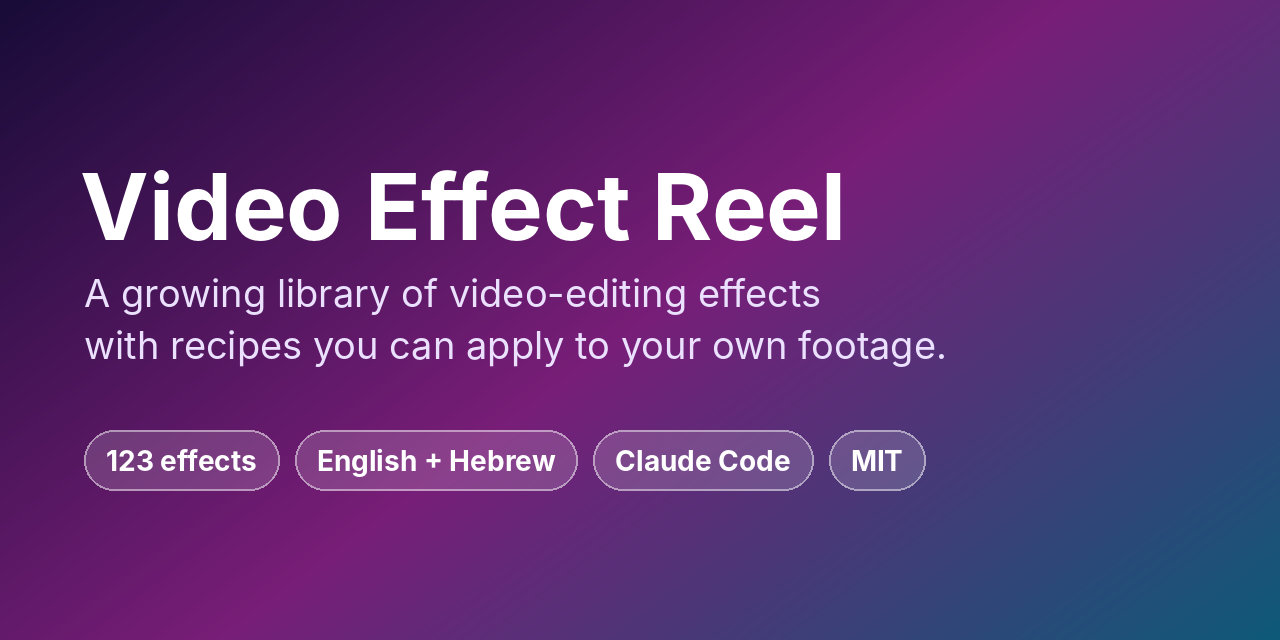
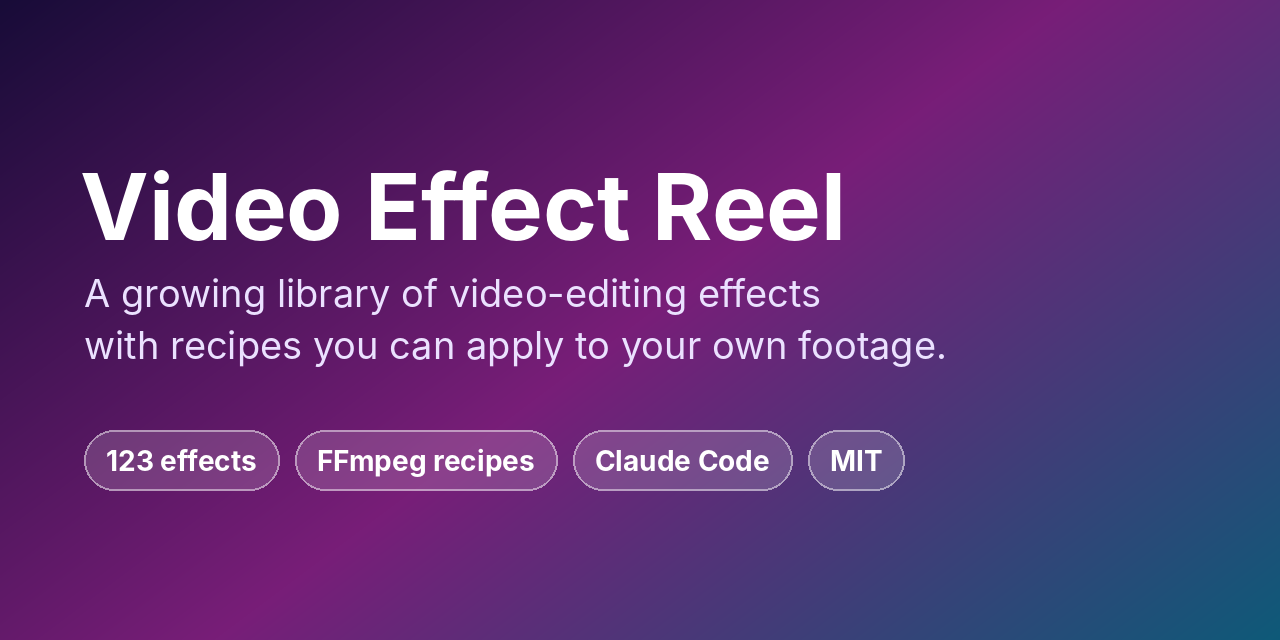
Make the public documentation English-only
- README: remove the Hebrew README, language badge and Hebrew references
- English-only screenshots and social preview image
- CONTRIBUTING, issue forms, skill and integration snippet in English
- English index no longer links to a translation

Claude-Session: https://claude.ai/code/session_01NGzpPiBKKeVhk9TqpcxCfm

Changed region(s): [[0.25, 0.6562, 0.7188, 0.7812]]

diff --git a/reel_effects.py b/reel_effects.py
@@ -288,7 +288,7 @@ Include only techniques visible in this video. Compare each visible technique ag
 
 LABELS = {
     "en": {"title": "# Effect Library", "count": "Starter recipes: {n}", "intro": "General reusable techniques, not claims that these appeared in an analyzed video.",
-           "when": "When to use", "recipe": "Recipe", "tags": "Tags", "reference": "Reference", "other": "Other languages: [עברית](EFFECTS.he.md)",
+           "when": "When to use", "recipe": "Recipe", "tags": "Tags", "reference": "Reference", "other": "",
            "analyses": "# My analyzed videos", "none": "No videos analyzed yet. Add one with `./reel-effects add <URL-or-file>`.",
            "source": "Source", "analyzed": "Analyzed", "summary": "Summary", "rhythm": "Editing rhythm", "confidence": "confidence",
            "evidence": "Evidence", "recreate": "Recreate"},
@@ -302,7 +302,7 @@ LABELS = {
 
 def render_index(starters: list[dict], lang: str) -> str:
     t = LABELS[lang]
-    lines = [t["title"], "", t["count"].format(n=len(starters)) + "  ", t["other"], "", t["intro"], ""]
+    lines = [t["title"], "", t["count"].format(n=len(starters)) + ("  " if t["other"] else ""), *([t["other"]] if t["other"] else []), "", t["intro"], ""]
     for raw in starters:
         effect = localize(raw, lang)
         lines += [f"### {effect['name']} — {effect['category']}", "", effect["summary"], "", f"{t['when']}: {effect['when_to_use']}", "",

diff --git a/README.md b/README.md
@@ -5,14 +5,13 @@
 **See a Reel with an editing trick you love? Find out what it is, and recreate it on your own footage.**
 
 Drop in a link or a video. Claude Code reads it frame by frame, names the effects, and writes a recipe for each one.
-You also get **123 ready-made effect recipes** out of the box, in English and Hebrew.
+You also get **123 ready-made effect recipes** out of the box.
 
 [![Library check](https://github.com/moshspro-dev/video-effect-reel/actions/workflows/check.yml/badge.svg)](https://github.com/moshspro-dev/video-effect-reel/actions/workflows/check.yml)
 [![License: MIT](https://img.shields.io/badge/license-MIT-blue.svg)](LICENSE)
 ![Python 3.10+](https://img.shields.io/badge/python-3.10%2B-3776AB)
-![English + Hebrew](https://img.shields.io/badge/languages-English%20%2B%20%D7%A2%D7%91%D7%A8%D7%99%D7%AA-8a5cf6)
 
-[**עברית**](README.he.md) · [Quick start](#-quick-start) · [Effects](#-123-effects-and-counting) · [Use it from your editing agent](#-plug-it-into-your-editing-agent) · [Contribute](#-add-an-effect-in-5-minutes)
+[Quick start](#-quick-start) · [Effects](#-123-effects-and-counting) · [Use it from your editing agent](#-plug-it-into-your-editing-agent) · [Contribute](#-add-an-effect-in-5-minutes)
 
 <img src="docs/images/effects-reel.gif" alt="Six effects from the library rendered on a test clip: RGB split, zoom punch-in, boomerang, VHS look, echo trails, mirror" width="100%">
 
@@ -46,14 +45,14 @@ cd video-effect-reel
 <img src="docs/images/find.png" alt="Terminal: ./reel-effects find speed ramp prints the recipe" width="80%">
 </div>
 
-`find` searches English **and** Hebrew words at once. Add `--lang he` for Hebrew output or `--json` for scripts and agents.
+`find` searches names, aliases, tags and recipes, plus your own analyses. Add `--json` for scripts and agents.
 
 ## 📱 A page you can use from your phone
 
-Paste a Reel link or upload a clip, review the effect names Claude suggests, and save them to your private library. The page works in English or Hebrew (`./reel-effects lang he`).
+Paste a Reel link or upload a clip, review the effect names Claude suggests, and save them to your private library.
 
 <div align="center">
-<img src="docs/images/ui.jpg" alt="The web page on a phone: upload form, library search in English, and the same search in Hebrew" width="100%">
+<img src="docs/images/ui.jpg" alt="The web page on a phone: upload form, and two library searches" width="100%">
 </div>
 
 ## 🧰 123 effects and counting
@@ -72,7 +71,7 @@ Paste a Reel link or upload a clip, review the effect names Claude suggests, and
 | Text and emphasis | 6 | Word-by-word captions, kinetic text, typewriter, sticker cutout |
 | Other | 2 | Light leak, RGB split |
 
-Every recipe says what you see, when to use it, and how to recreate it on your own footage. Several include FFmpeg commands that were test-run. Browse them in [`library/EFFECTS.md`](library/EFFECTS.md) (English) or [`library/EFFECTS.he.md`](library/EFFECTS.he.md) (Hebrew).
+Every recipe says what you see, when to use it, and how to recreate it on your own footage. Several include FFmpeg commands that were test-run. Browse them all in [`library/EFFECTS.md`](library/EFFECTS.md).
 
 ## 🔌 Plug it into your editing agent
 
@@ -92,9 +91,7 @@ A ready-to-paste section for Claude Code skills and `CLAUDE.md` files is in [`in
 
 ## 🤝 Add an effect in 5 minutes
 
-Know a technique that's missing? Add one entry to `library/effects.json`, run `./reel-effects index && ./reel-effects check`, and open a pull request. A CI check validates every PR. Details, the entry format and the Hebrew translation block are in [CONTRIBUTING.md](CONTRIBUTING.md).
-
-Hebrew speakers: effects without a translation fall back to English, so translations are a great first contribution.
+Know a technique that's missing? Add one entry to `library/effects.json`, run `./reel-effects index && ./reel-effects check`, and open a pull request. A CI check validates every PR. The entry format and a checklist are in [CONTRIBUTING.md](CONTRIBUTING.md).
 
 ## ⚙ How it works
 
@@ -117,13 +114,12 @@ The starter pack is based on the documented Remotion transitions and effects and
 ./reel-effects add --start 4 --end 7 --fps 30 ~/Videos/clip.mp4   # a short, fast section
 ./reel-effects find zoom                                          # search recipes and your analyses
 ./reel-effects list                                               # print the whole library
-./reel-effects lang he                                            # Hebrew page and Hebrew analyses (en to switch back)
 ./reel-effects check                                              # validate the library
 ```
 
 If Instagram needs a logged-in session, add `--cookies-from-browser chrome` only for a browser profile that is already logged in, or just save the video and pass its path.
 
-Settings live in `local/settings.json` (or `REEL_EFFECTS_LANG`, `REEL_EFFECTS_LOCAL_DIR`). The latter can point to a synced folder if you want the same analyses on two computers.
+Your analyses live in `local/`. Set `REEL_EFFECTS_LOCAL_DIR` to a synced folder if you want the same analyses on two computers.
 
 ### Run the page in the background
 

diff --git a/.claude/skills/reel-effect-librarian/SKILL.md b/.claude/skills/reel-effect-librarian/SKILL.md
@@ -11,10 +11,10 @@ For every effect, include approximate start/end time, concise description, categ
 
 For automated analysis, return exactly one JSON object matching the schema embedded in the request and do not modify files; the local CLI validates the response and stages it for the user to name/approve.
 
-For an interactive request to apply or compare techniques, read the starter library (`library/EFFECTS.md` in English, `library/EFFECTS.he.md` in Hebrew; `library/effects.json` when details are needed) and the user's private analyses in `local/ANALYSES.md` if it exists, then give practical, evidence-backed suggestions using the user's own footage. Do not claim that the model has been trained or permanently changed. Reuse library entries as references, but do not claim an effect appears in a new video unless it is independently visible there. Do not edit the library unless the user explicitly asks.
+For an interactive request to apply or compare techniques, read the starter library (`library/EFFECTS.md`; `library/effects.json` when details are needed) and the user's private analyses in `local/ANALYSES.md` if it exists, then give practical, evidence-backed suggestions using the user's own footage. Do not claim that the model has been trained or permanently changed. Reuse library entries as references, but do not claim an effect appears in a new video unless it is independently visible there. Do not edit the library unless the user explicitly asks.
 
-The library separates `starter_effects` in `library/effects.json` (general recipes, not observed in a specific Reel; English fields with an optional `he` translation block) from the user's private `analyses` in `local/analyses.json` (techniques visibly identified in user-provided videos, never committed). When analyzing a new video, compare visible techniques against both groups and report only strong technical matches as same/similar, with the exact catalog ID and a short reason. Similarity is a review suggestion, not a reason to discard the new analysis; the user decides whether it is a duplicate.
+The library separates `starter_effects` in `library/effects.json` (general recipes, not observed in a specific Reel) from the user's private `analyses` in `local/analyses.json` (techniques visibly identified in user-provided videos, never committed). When analyzing a new video, compare visible techniques against both groups and report only strong technical matches as same/similar, with the exact catalog ID and a short reason. Similarity is a review suggestion, not a reason to discard the new analysis; the user decides whether it is a duplicate.
 
 Answer in the language the user writes in. For automated analysis, write text values in the language named in the request.
 
-To look up techniques quickly, run `./reel-effects find <words>` (English or Hebrew words both work; `--lang he|en` picks the output language, `--json` gives structured output) instead of reading the whole library. It searches the shared recipes and the user's private analyses.
+To look up techniques quickly, run `./reel-effects find <words>` (`--json` gives structured output) instead of reading the whole library. It searches the shared recipes and the user's private analyses.

diff --git a/CONTRIBUTING.md b/CONTRIBUTING.md
@@ -14,31 +14,25 @@ Open an issue with the **Effect suggestion** form. Describe what is visible on s
    {
      "id": "speed-ramp",
      "name": "Speed ramp",
-     "aliases": ["variable speed", "רמפת מהירות"],
+     "aliases": ["variable speed", "time remap"],
      "category": "Timing/Speed",
      "summary": "What is visible on screen, in a sentence or two.",
      "when_to_use": "When the effect fits, and when it doesn't.",
      "recipe": "Practical steps to recreate it on your own footage: timing, values, and an FFmpeg command if there is one.",
      "tags": ["speed-ramp", "rhythm"],
-     "reference": "https://ffmpeg.org/ffmpeg-filters.html#setpts_002c-asetpts",
-     "he": {
-       "category": "קצב/מהירות",
-       "summary": "…",
-       "when_to_use": "…",
-       "recipe": "…"
-     }
+     "reference": "https://ffmpeg.org/ffmpeg-filters.html#setpts_002c-asetpts"
    }
    ```
 
    - `id`: unique, lowercase kebab-case.
    - `name`: the English name editors recognize. `aliases` can hold other names in any language; they help search.
    - `category`: reuse an existing category where possible; check the existing ones in `library/EFFECTS.md`.
-   - The main fields are in **English**. The `he` block is an optional Hebrew translation. If you include it, `category`, `summary`, `when_to_use` and `recipe` are required, and `name`, `tags` and `reference` are optional overrides. Effects without a `he` block show in English in Hebrew mode. Hebrew speakers are welcome to add missing translations.
+   - Write in clear, plain **English**. Keep technical terms (filter names, parameters) exactly as the tool spells them.
    - `reference`: a documentation URL, or `Common editing technique` when there is no single source.
    - Recipes describe how to treat the user's **own footage**. Do not add copyrighted assets, other people's videos or links to them.
    - If the recipe includes an FFmpeg command, run it once to make sure it works.
 
-2. Regenerate the readable indexes (English and Hebrew) and validate:
+2. Regenerate the readable index and validate:
 
    ```bash
    ./reel-effects index

diff --git a/integrations/editing-skill-snippet.md b/integrations/editing-skill-snippet.md
@@ -13,10 +13,9 @@ A library of editing effects with practical recipes lives at `/path/to/video-eff
 
 - **Look up before you build.** When the user asks for an effect, transition, look or "something like in that reel", or when you plan transitions for a first cut, run:
   `/path/to/video-effect-reel/reel-effects find <words>`
-  English and Hebrew words both work (`find "speed ramp"`, `find רמפת מהירות`). Add `--lang he` for Hebrew output, `--limit 3` for fewer results, `--json` for structured output. Results include the user's private analyses of reels they studied.
+  For example `find "speed ramp"`. Add `--limit 3` for fewer results or `--json` for structured output. Results include the user's private analyses of reels they studied.
 - **Read the recipe, then adapt it.** Recipes are written for general tools (FFmpeg filters, Remotion, After Effects terms). Translate them into the project's engine, keep the project's style defaults (palette, fonts, subtitle placement), and say so when a recipe cannot be done with the available tools.
 - **Anchor to a moment.** Place each effect on a word or beat from the word-level transcript, and keep it short and sparing.
 - **Existing references win for what they cover.** If the skill's own `references/effects.md` already has a recipe for an effect, use that one; use the library for everything else.
 - **Rights.** Recipes apply to the user's own footage. Never reuse footage, music or assets from the reels that were analyzed; they are inspiration only.
 - **Learning from a new reel.** Don't download links from the shell. Ask the user to save the video to the folder and run `/path/to/video-effect-reel/reel-effects add <file>` (or use the library's web page); afterwards `find` includes the new analysis.
-- **Language.** `reel-effects lang he|en` sets the library's language for the web page and for new analyses; `find --lang` overrides it per call.

diff --git a/library/EFFECTS.md b/library/EFFECTS.md
@@ -1,7 +1,6 @@
 # Effect Library
 
-Starter recipes: 123  
-Other languages: [עברית](EFFECTS.he.md)
+Starter recipes: 123
 
 General reusable techniques, not claims that these appeared in an analyzed video.
 
